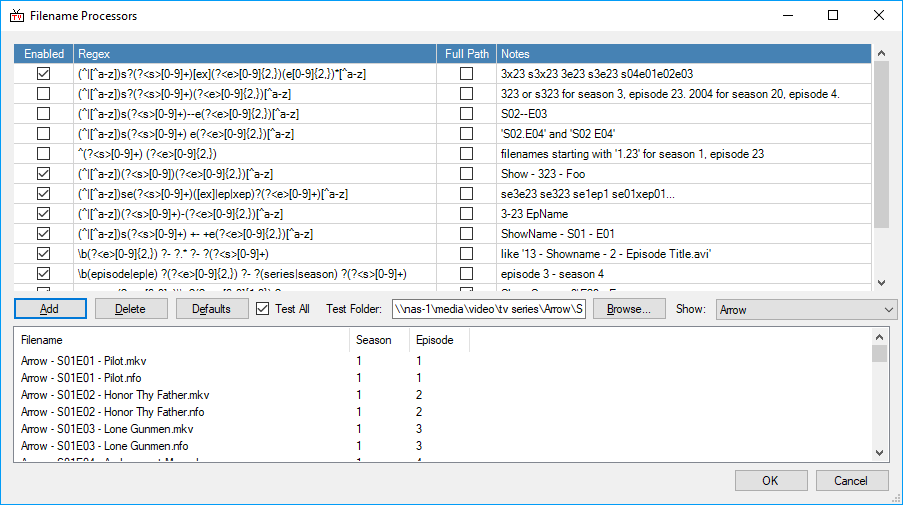
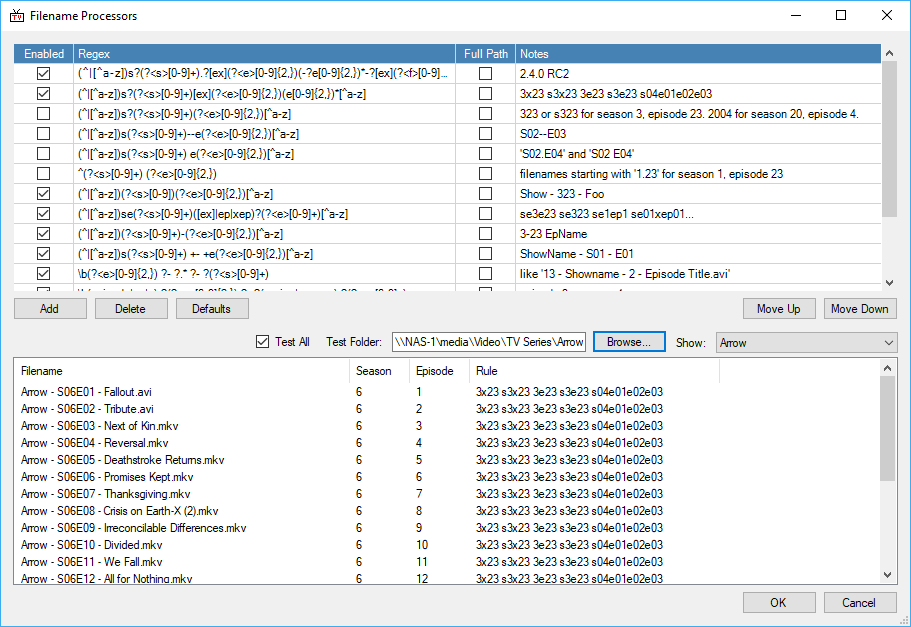
updating filename processors

Changed region(s): [[0.0, 0.0, 1.0, 1.0], [0.8992, 0.0, 0.9302, 0.0297], [0.0, 0.9802, 0.031, 1.0]]

diff --git a/_manual/options/filename-processors.md b/_manual/options/filename-processors.md
@@ -2,7 +2,7 @@
 ## Filename Processors
 
 ![he Filename Processors window]({{ site.baseurl }}/assets/images/options/filename-processors-01.png){:.pic-c}
-In much the same way that the _**Filename Template Editor**_ is used to process the names of files being moved to the media library so _**Filename Processors**_ is used to inform Rename what filenames to look out for when searching for a missing files
+In much the same way that the _**Filename Template Editor**_ is used to process the names of files being moved to the media library so _**Filename Processors**_ is used to inform TV Rename what filenames to look out for when searching for a missing files
 
 To really understand the contents of the Regex column above, you need a working knowledge of [Regular&nbsp;Expressions](https://regexone.com/ "Visit RegexOne").
 
@@ -14,11 +14,15 @@ or on the whole path: -
 
 > C:/files/ShowName/S01E07.avi
 
+The expressions are evaluated in order (top down).
+
 Each expression can be toggled on and off, as can the ability to process a full path.
 
 Each expression has a Notes field which can be used to remind the user why the expression was added.
 
 Additionally, a folder can be specified to test the results of the Regular Expression.
+
+If a match is found during the test the matching expression is indicated.
 
 In all likelihood you will find it unnecessary to make changes here, only if a new, totally unrecognisable file name structure appeared would it be necessary, and then there would probably be discussion about it in the forum.
 
